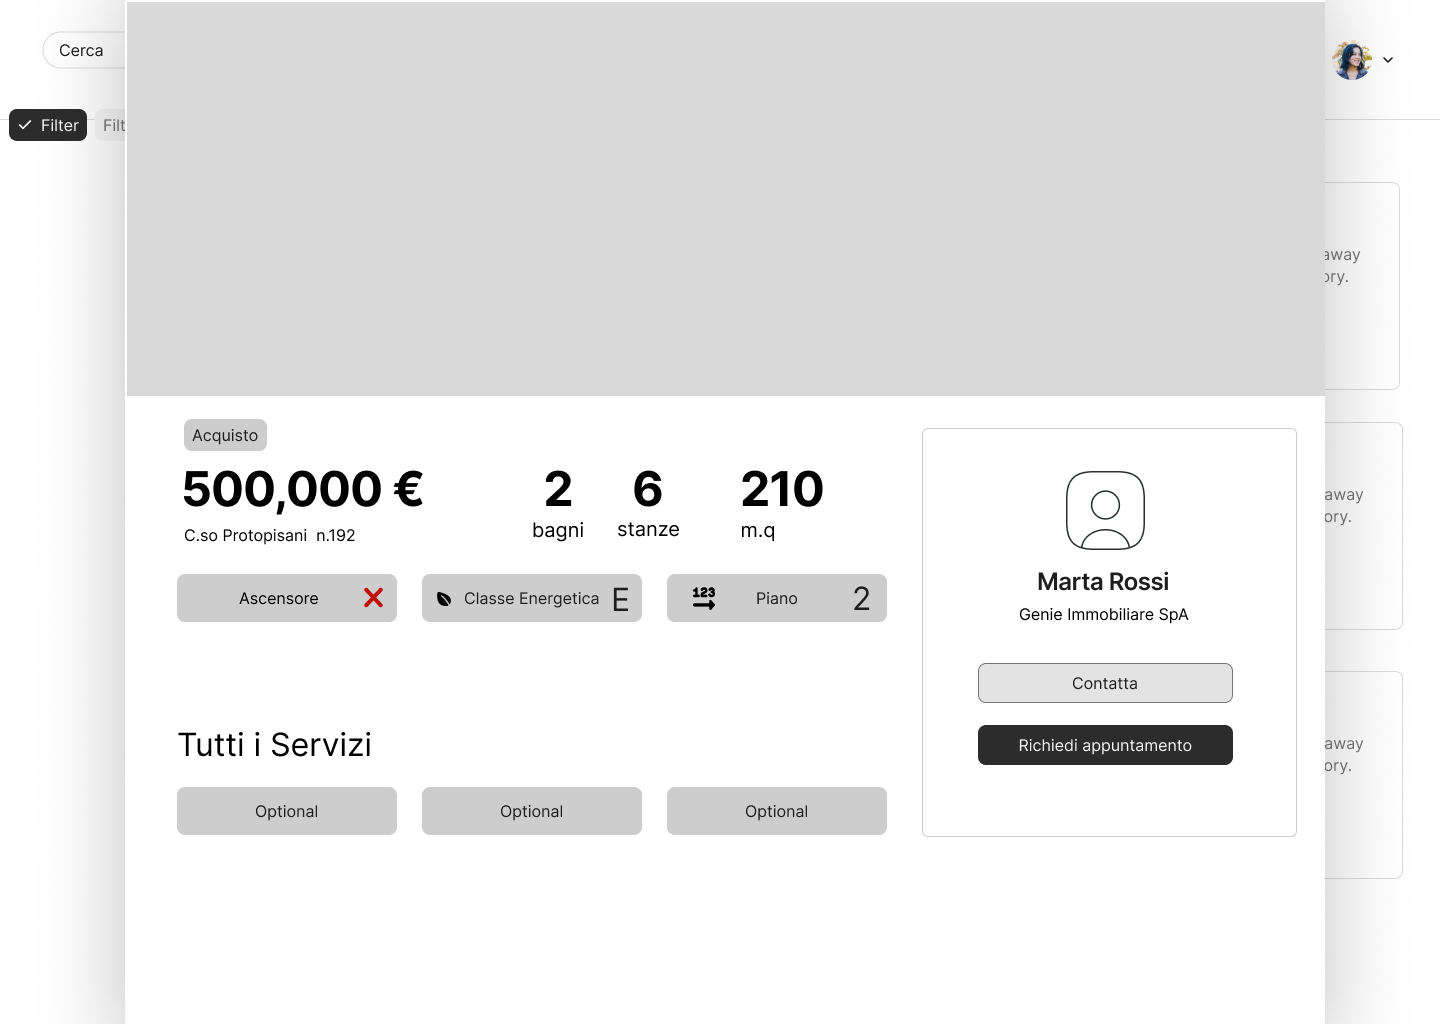
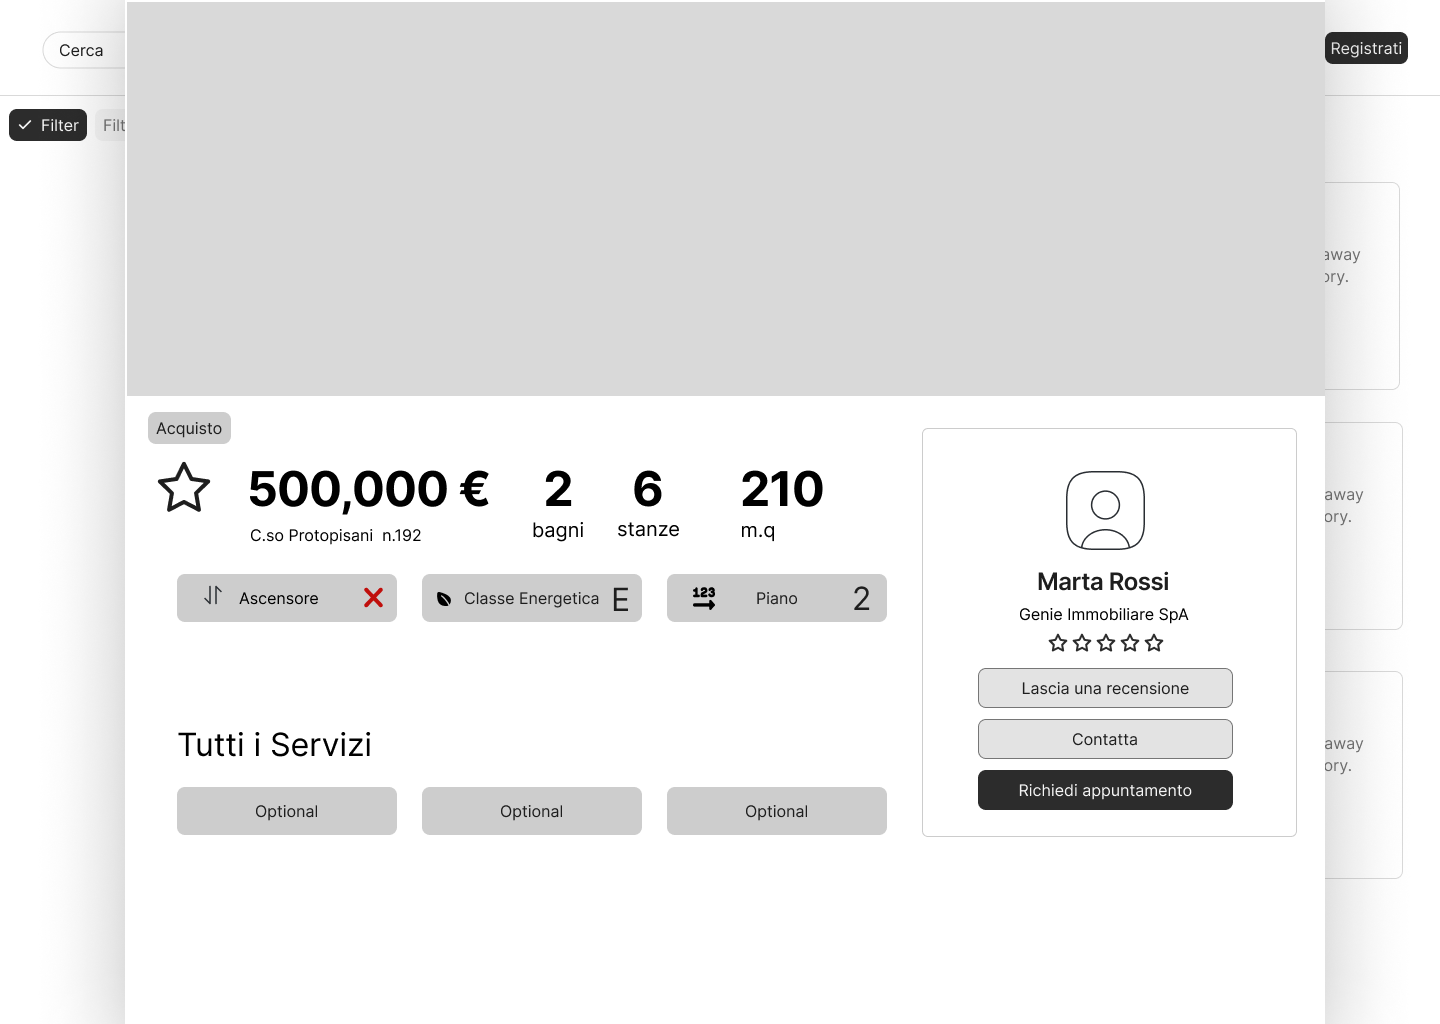
changes

Changed region(s): [[0.6562, 0.625, 0.875, 0.8125], [0.0938, 0.375, 0.3438, 0.5312], [0.9062, 0.0312, 1.0, 0.0938]]

diff --git a/resources/salva-annuncio-cockburn.tex b/resources/salva-annuncio-cockburn.tex
@@ -10,33 +10,20 @@
 	hlines = {}, %per le cornici orizzontali
     % Merge delle righe/colonne:
     cell{1-7}{2} = {c = 3}{10cm, halign = l},
-    cell{8}{1} = {r = 4}{valign = t},
-    cell{12}{1} = {r = 4}{valign = t},
-    cell{16}{1} = {r = 4}{valign = t},
-    cell{20}{2} = {c = 3}{10cm, halign = l}
+    cell{8}{1} = {r = 3}{valign = t}
 }
 USE CASE & Salva Annuncio & & \\
 Goal in Context & Il Cliente vuole salvare l'annuncio trovato tra i preferiti
 in modo tale da accedervi piú velocemente in futuro & & \\
-Preconditions & Il Cliente deve essere autenticato & & \\
+Preconditions & Il Cliente deve essersi autenticato & & \\
 Success End Condition & Il sistema aggiunge l'annuncio tra gli annunci salvati
 del Cliente & & \\
 Fail End Condition & Il sistema non aggiunge l'annuncio tra gli annunci salvati
 del Cliente & & \\
 Primary Actor & Cliente & & \\
-Trigger & Il Cliente clicca sul pulsante a forma di stella presente sull'annuncio
-d'interesse, nella schermata X & & \\
+Trigger & Il cliente clicca sul pulsante a forma di stella presente sull'annuncio
+d'interesse, nella schermata \ref{fig:M-RI4} & & \\
 Main Scenario   & Step & Cliente & System   \\
  & 1 & Trigger & \\
- & 2 & & \\
- & 3 & & \\
-Extension A & Step & Cliente & System   \\
- & & & \\
- & & & \\
- & & & \\
-Extension B & Step & Cliente & System   \\
- & & & \\
- & & & \\
- & & & \\
-Open Issues & & & \\
+ & 2 & & Tiene traccia dell'aggiunta ai preferiti e termina use case. \\
 \end{tblr}

diff --git a/resources/valuta-agente-cockburn.tex b/resources/valuta-agente-cockburn.tex
@@ -10,10 +10,7 @@
 	hlines = {}, %per le cornici orizzontali
     % Merge delle righe/colonne:
     cell{1-7}{2} = {c = 3}{10cm, halign = l},
-    cell{8}{1} = {r = 4}{valign = t},
-    cell{12}{1} = {r = 4}{valign = t},
-    cell{16}{1} = {r = 4}{valign = t},
-    cell{20}{2} = {c = 3}{10cm, halign = l}
+    cell{8}{1} = {r = 5}{valign = t}
 }
 USE CASE & Valuta Agente & & \\
 Goal in Context & Il Cliente vuole valutare la propria esperienza con un Agente & & \\
@@ -21,18 +18,11 @@ Preconditions & Il Cliente deve essere autenticato & & \\
 Success End Condition & Il sistema tiene traccia della valutazione del Cliente & & \\
 Fail End Condition & Il sistema non tiene traccia della valutazione del Cliente & & \\
 Primary Actor & Cliente & & \\
-Trigger & Il Cliente clicca sul pulsante "Aggiungi una recensione" della schermata X & & \\
+Trigger & Il Cliente clicca sul pulsante "Aggiungi una recensione" della schermata \ref{fig:M-RI4} & & \\
 Main Scenario & Step & Cliente & System   \\
  & 1 & Trigger & \\
- & 2 & & \\
- & 3 & & \\
-Extension A & Step & Cliente & System   \\
- & & & \\
- & & & \\
- & & & \\
-Extension B & Step & Cliente & System   \\
- & & & \\
- & & & \\
- & & & \\
-Open Issues & & & \\
+ & 2 & & Mostra la schermata \ref{fig:M-VA1}\\
+ & 3 & Inserisce una valutazione da una a cinque stelle e,
+ opzionalmente, un commento. Clicca poi sul pulsante "Invia Recensione". & \\
+ & 4 & & Registra la recensione e termina caso d'uso. \\
 \end{longtblr}

diff --git a/resources/ricerca-immobili-cockburn.tex b/resources/ricerca-immobili-cockburn.tex
@@ -22,8 +22,8 @@
 USE CASE & Ricerca Immobili & & \\
 Goal in Context & Il Cliente vuole trovare annunci di immobili di suo interesse. & & \\
 Preconditions & Nessuna precondizione. & & \\
-Success End Condition & Il sistema tiene traccia della ricerca effettuata, salvandola tra le “Ricerche recenti”. & & \\
-Fail End Condition & Il sistema tiene traccia della ricerca effettuata, salvandola tra le “Ricerche recenti”. & & \\
+Success End Condition & Se l'utente si é autenticato, il sistema salva la ricerca effettuata tra le “Ricerche recenti”. & & \\
+Fail End Condition & Se l'utente si é autenticato, il sistema salva la ricerca effettuata tra le “Ricerche recenti”. & & \\
 Primary Actor & Cliente & & \\
 Trigger & Il Cliente clicca sulla barra di ricerca di \ref{fig:M-RI1}. & & \\
 Main Scenario & Step & Cliente & Sistema   \\
@@ -34,7 +34,7 @@ Main Scenario & Step & Cliente & Sistema   \\
  Clicca su “Cerca”. & \\
  & 4 & & Mostra \ref{fig:M-RI3} \\
  & 5 & Clicca su un risultato. & \\
- & 6 & & Mostra \ref{fig:M-RI4} Termina use case. \\
+ & 6 & & Mostra \ref{fig:M-FA3} Termina use case. \\
 Extension A: 
 click su una ricerca recente & Step & Cliente & Sistema \\
  & 3.a & Clicca su una ricerca recente. & \\

diff --git a/specifica-dei-requisiti.tex b/specifica-dei-requisiti.tex
@@ -33,13 +33,6 @@ più significativi e centrali.
     \label{fig:M-RI3bis}
 \end{figure}
 
-\begin{figure}[h]
-    \centering
-    \fbox{\includegraphics[width=\textwidth]{assets/mockups/ricerca-immobili/M-RI4.png}}
-    \caption{M-RI4}
-    \label{fig:M-RI4}
-\end{figure}
-
 \subsection{Fissa Appuntamento}
 \input{resources/fissa-appuntamento.tex}
 \begin{figure}[h]
@@ -63,6 +56,12 @@ più significativi e centrali.
 
 \subsection{Valuta Agente}
 \input{resources/valuta-agente-cockburn.tex}
+\begin{figure}[h]
+    \centering
+    \fbox{\includegraphics[width=\textwidth]{assets/mockups/valuta-agente/M-VA1.png}}
+    \caption{M-VA1}
+    \label{fig:M-VA1}
+\end{figure}
 
 \subsection{Salva Annuncio}
 \input{resources/salva-annuncio-cockburn.tex}
